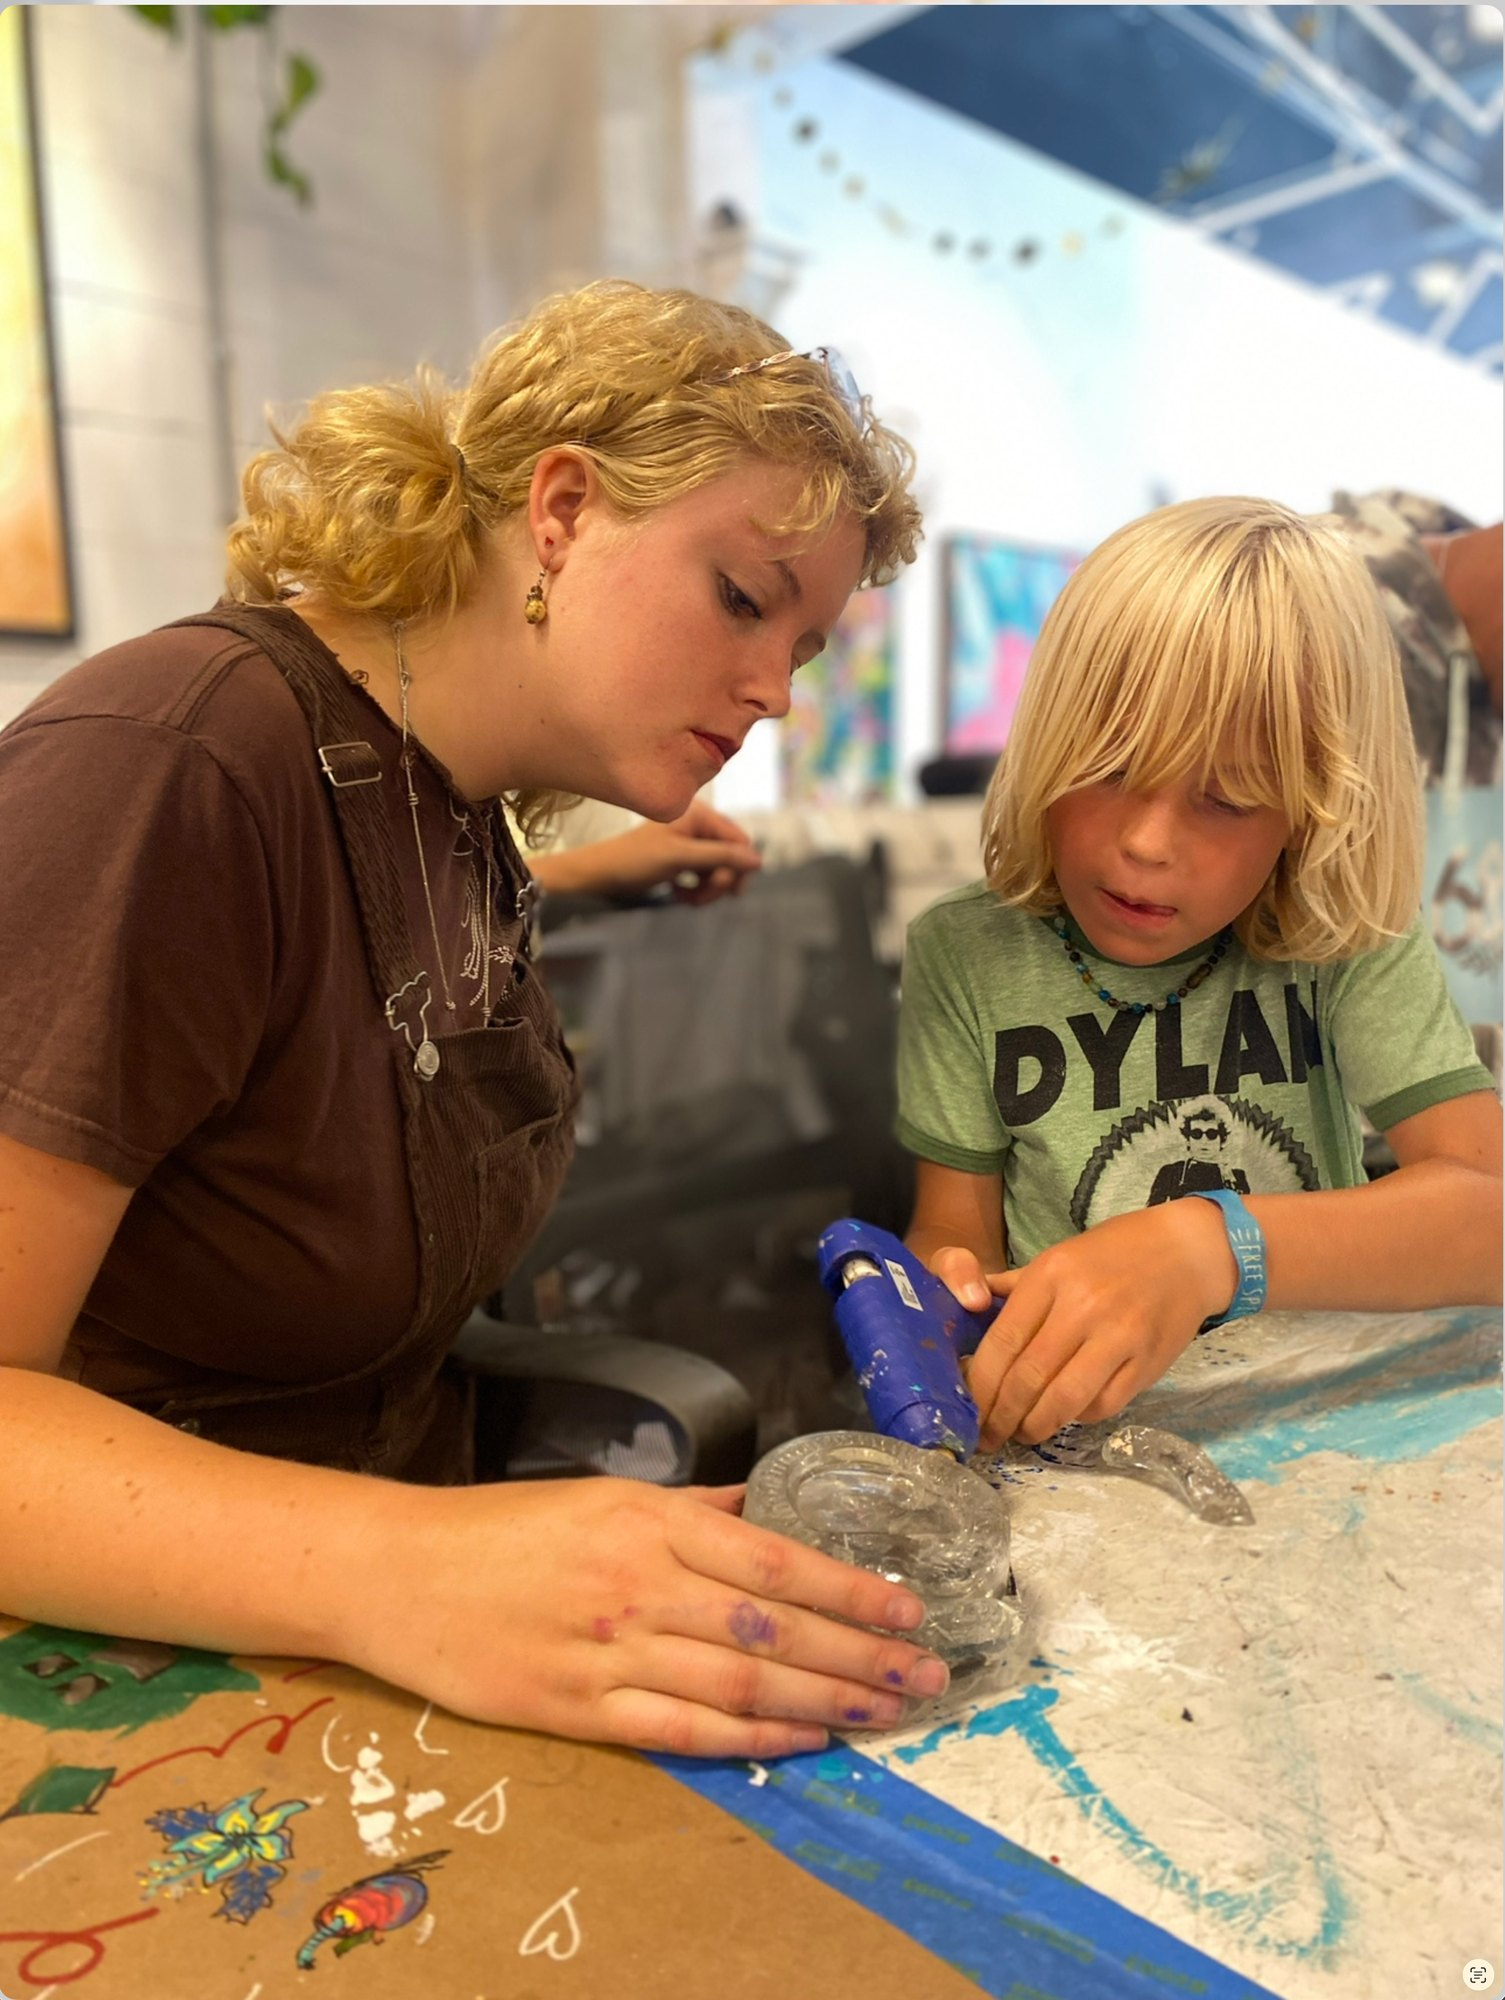
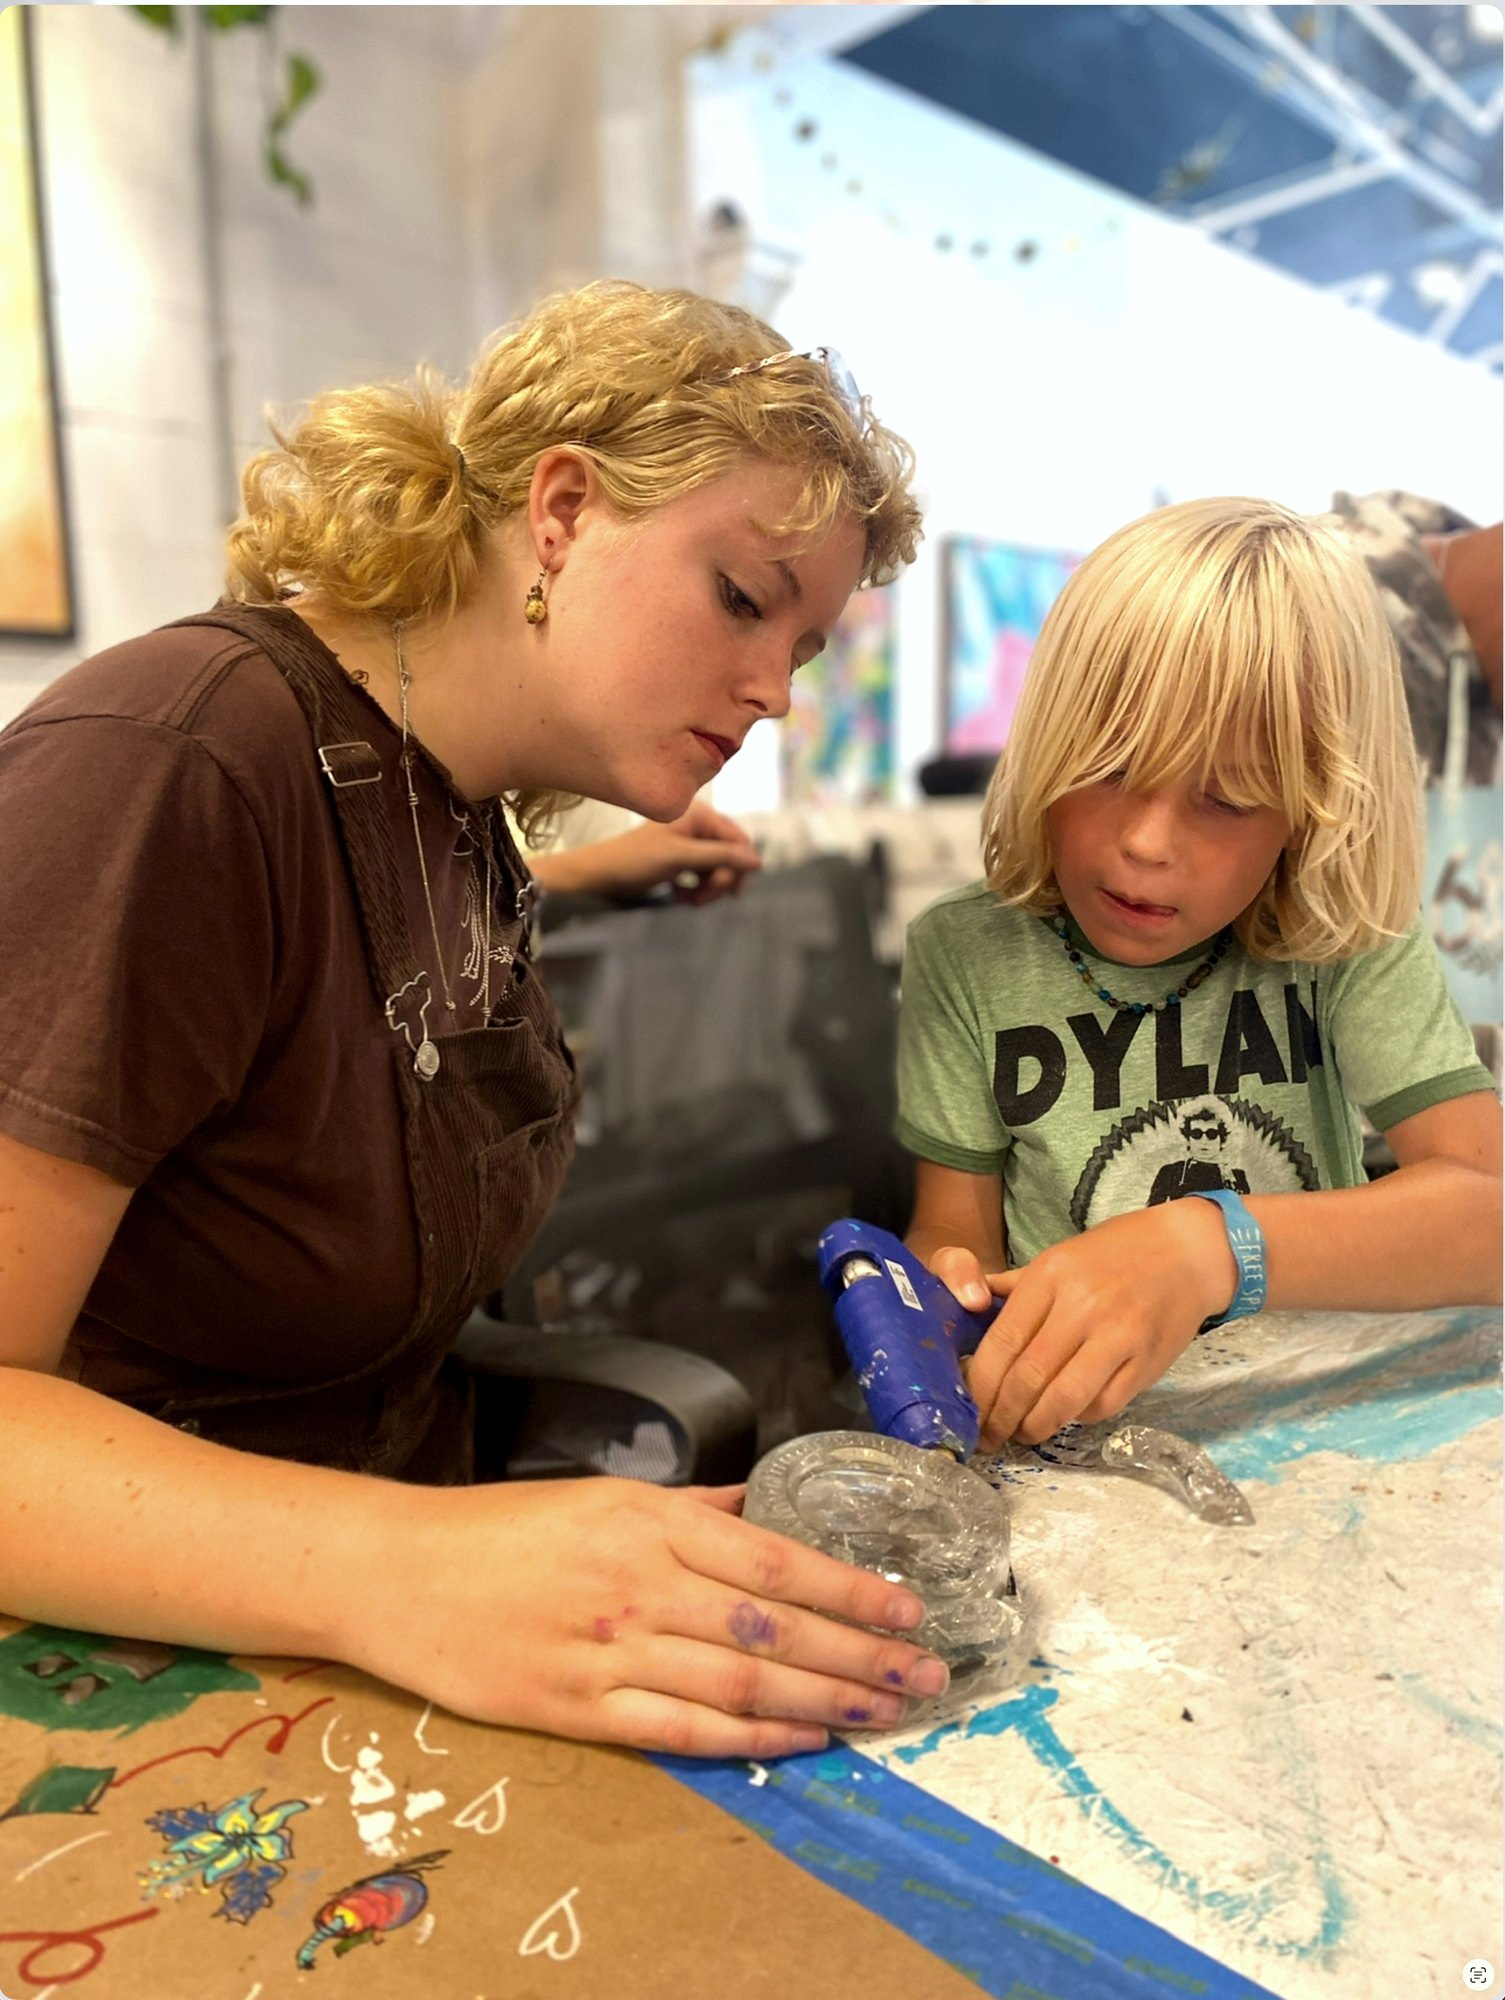
Fiona: teaching photos tune
Claude-Session: https://claude.ai/code/session_012U18n2jx8i57thyH5Nwtnb

diff --git a/features/fiona-dowdee/index.html b/features/fiona-dowdee/index.html
@@ -336,8 +336,8 @@ footer p span{color:#fff;white-space:nowrap}
     </div>
 
     <div class="wrap wide g g2">
-      <figure><span class="crop"><img loading="lazy" src="/features/fiona-dowdee/img/teach1.jpg" alt="Fiona Dowdee helping a young boy paint" style="aspect-ratio:3/4;object-position:50% 50%"></span></figure>
-      <figure><span class="crop"><img loading="lazy" src="/features/fiona-dowdee/img/teach2.jpg" alt="Fiona Dowdee drawing on the floor with a child" style="aspect-ratio:3/4;object-position:50% 50%"></span></figure>
+      <figure><span class="crop"><img loading="lazy" src="/features/fiona-dowdee/img/teach1.jpg" alt="Fiona Dowdee helping a young boy paint" style="aspect-ratio:3/4;object-position:50% 50%;transform-origin:50% 50%;transform:scale(1)"></span></figure>
+      <figure><span class="crop"><img loading="lazy" src="/features/fiona-dowdee/img/teach2.jpg" alt="Fiona Dowdee drawing on the floor with a child" style="aspect-ratio:3/4;object-position:50% 50%;transform-origin:50% 50%;transform:translate(89px, 7px) scale(1.34)"></span></figure>
     </div>
 
     <div class="wrap col">

diff --git a/_build/feature-template/fiona-dowdee-source.html b/_build/feature-template/fiona-dowdee-source.html
@@ -329,8 +329,8 @@ footer p span{color:#fff;white-space:nowrap}
     </div>
 
     <div class="wrap wide g g2">
-      <figure><span class="crop"><img src="{{teach1}}" alt="Fiona Dowdee helping a young boy paint" style="aspect-ratio:3/4;object-position:50% 50%"></span></figure>
-      <figure><span class="crop"><img src="{{teach2}}" alt="Fiona Dowdee drawing on the floor with a child" style="aspect-ratio:3/4;object-position:50% 50%"></span></figure>
+      <figure><span class="crop"><img src="{{teach1}}" alt="Fiona Dowdee helping a young boy paint" style="aspect-ratio:3/4;object-position:50% 50%;transform-origin:50% 50%;transform:scale(1)"></span></figure>
+      <figure><span class="crop"><img src="{{teach2}}" alt="Fiona Dowdee drawing on the floor with a child" style="aspect-ratio:3/4;object-position:50% 50%;transform-origin:50% 50%;transform:translate(89px, 7px) scale(1.34)"></span></figure>
     </div>
 
     <div class="wrap col">
